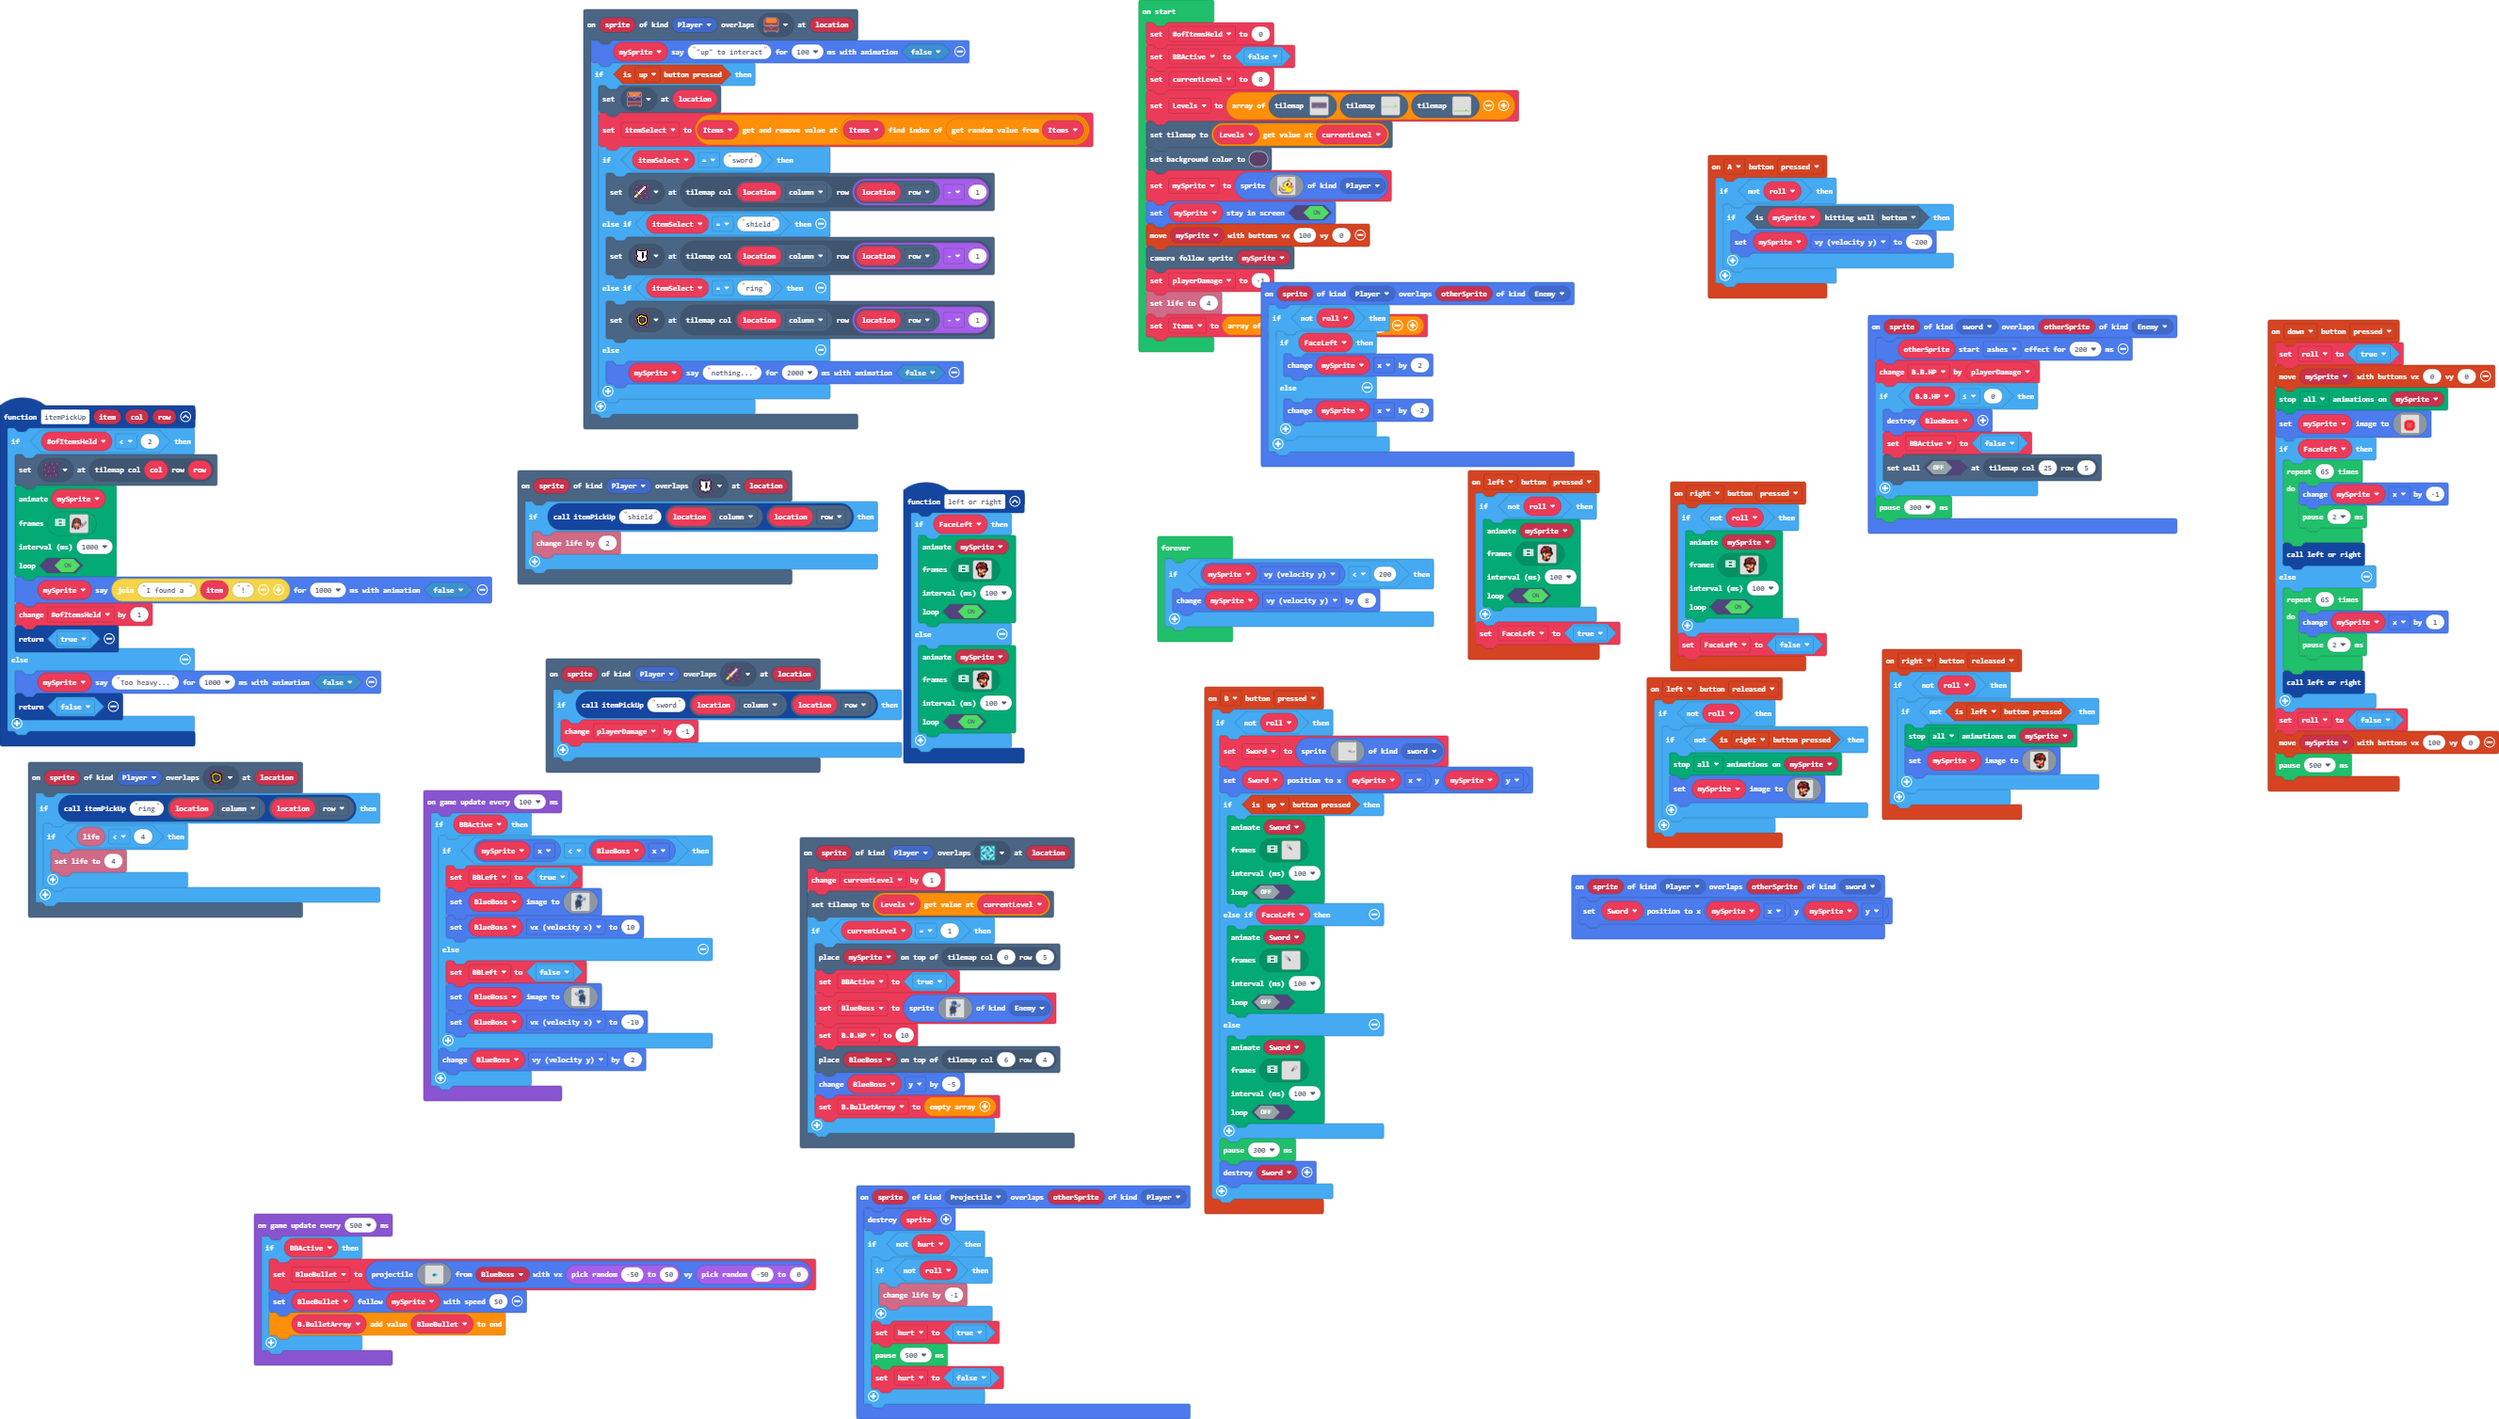
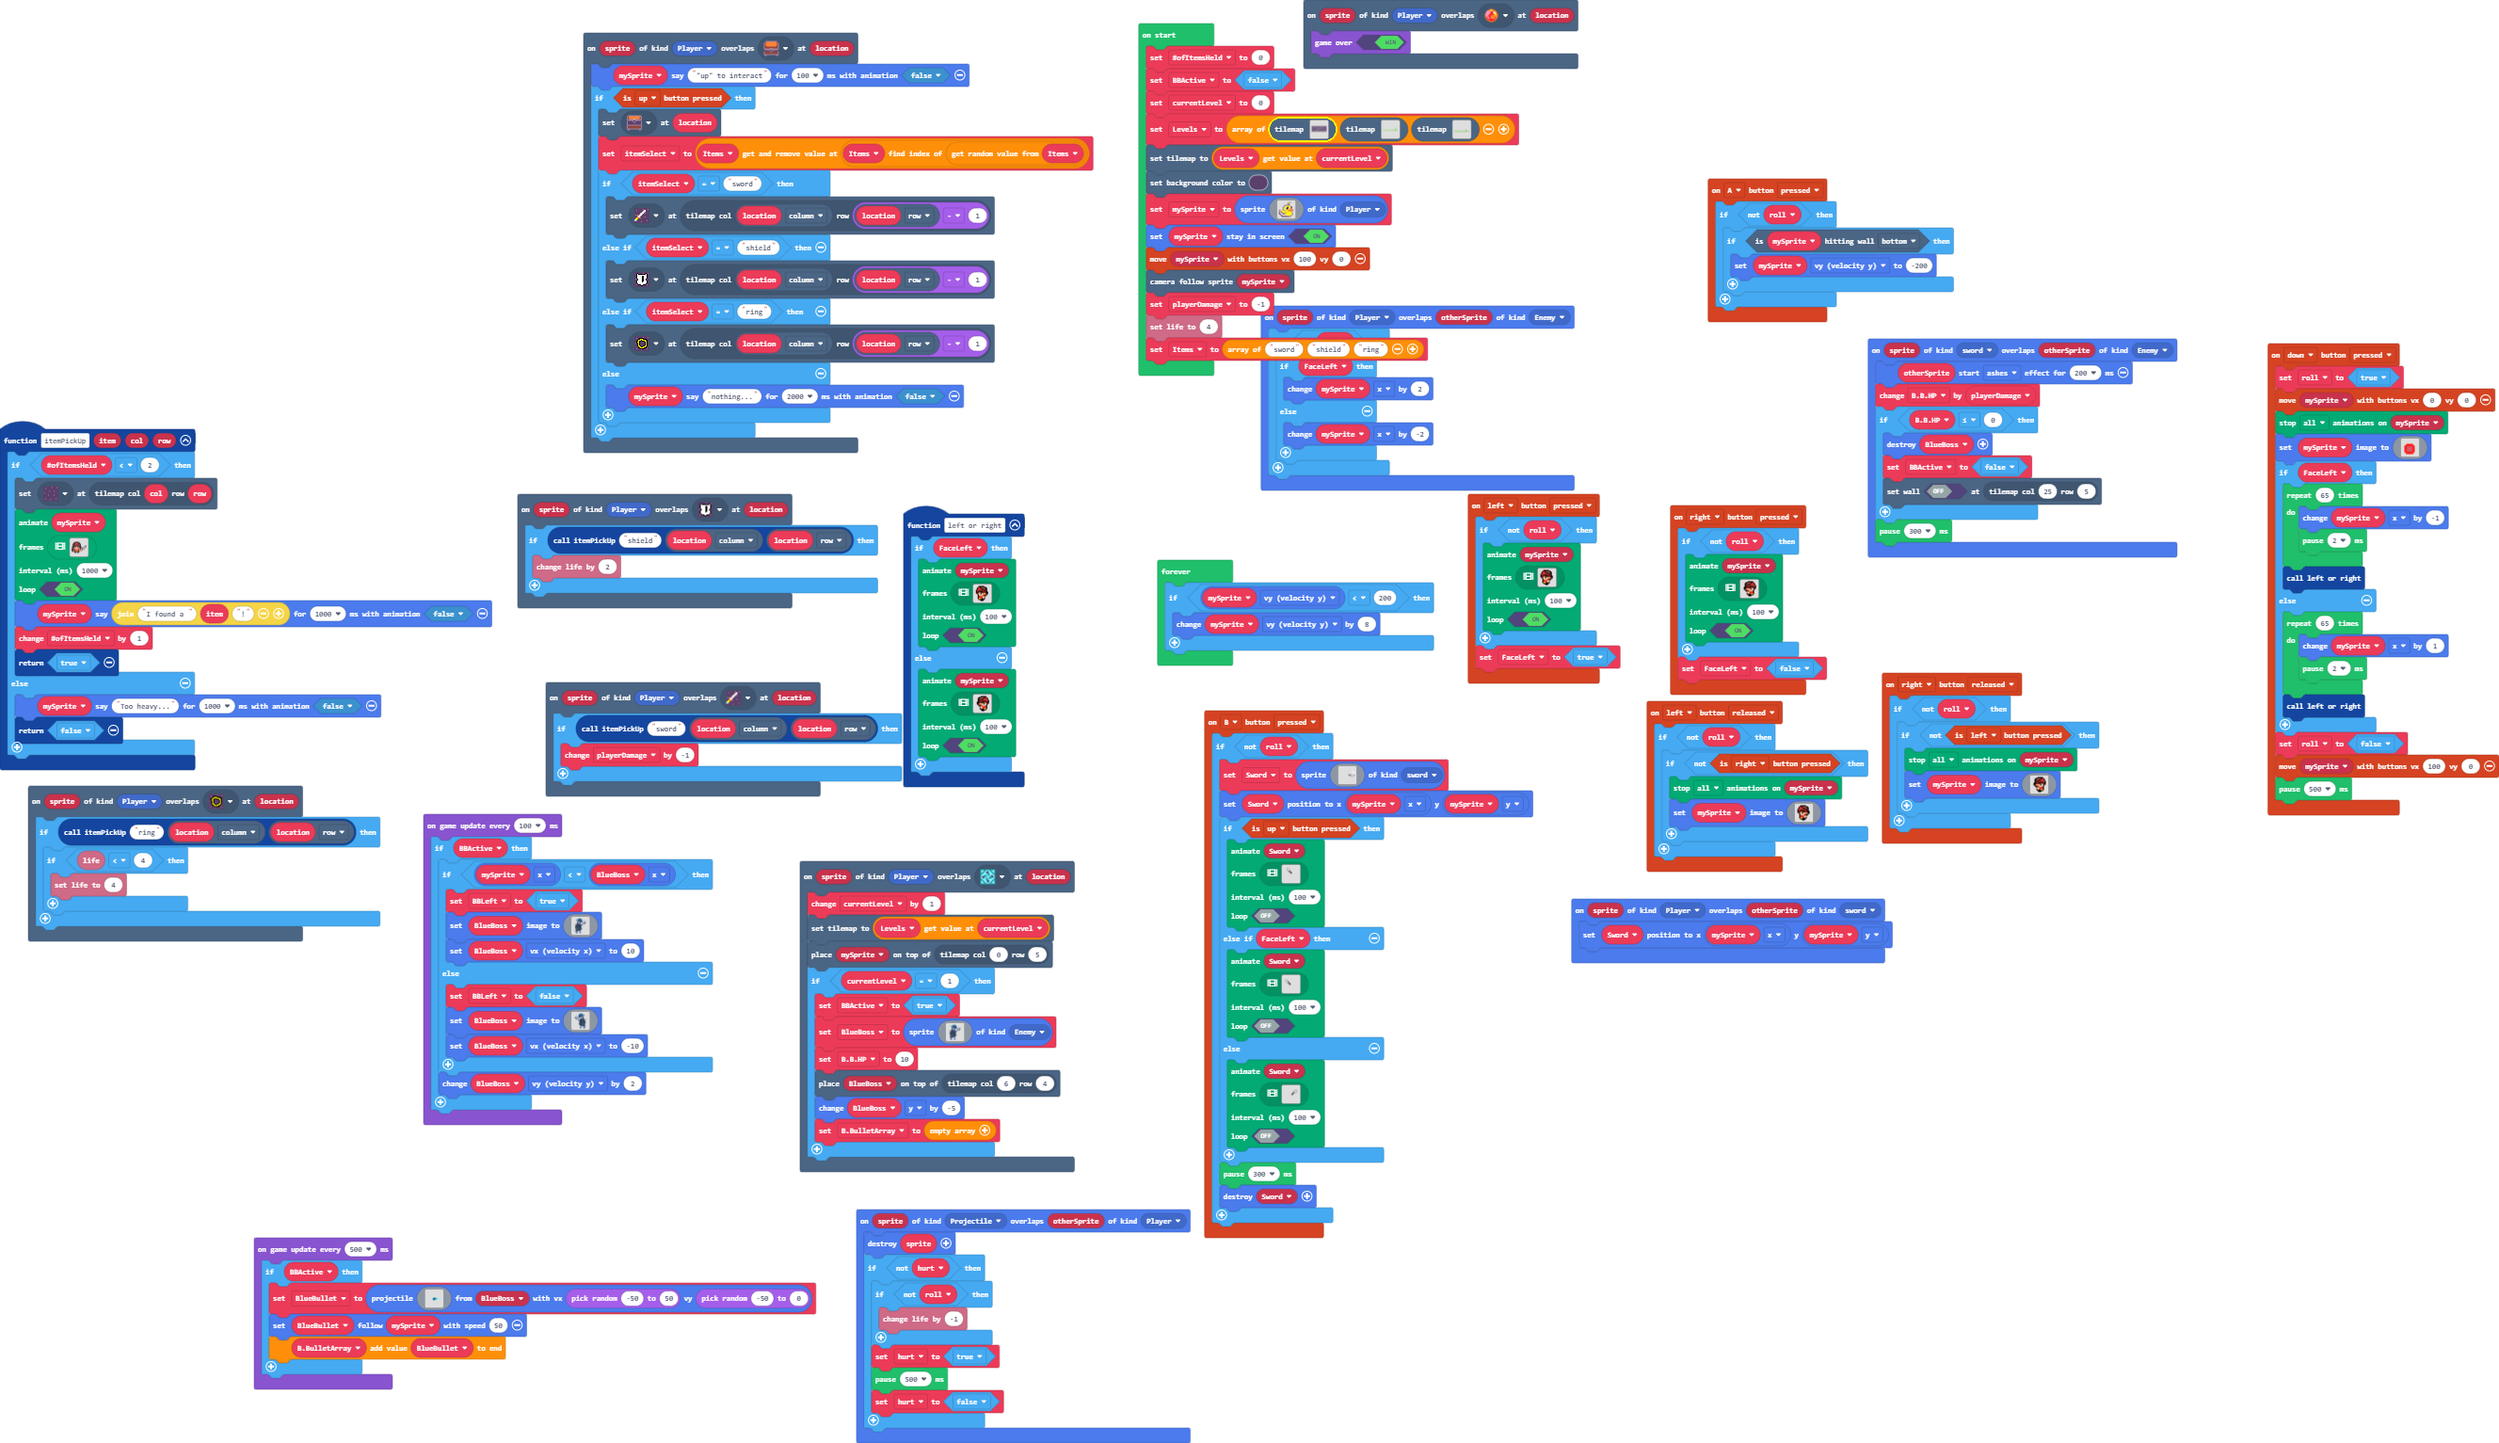
Update main.blocks, main.ts, tilemap.g.jres, tilemap.g.ts

Changed region(s): [[0.0, 0.0, 1.0, 0.9973]]

diff --git a/tilemap.g.ts b/tilemap.g.ts
@@ -127,27 +127,8 @@ namespace myTiles {
 . . . . . . . . . . . . . . . . 
 . . . . . . . . . . . . . . . . 
 `, [myTiles.transparency16], TileScale.Sixteen);
-            case "level9":
-            case "level9":return tiles.createTilemap(hex`1000100000000000000000000000000000000000000000000000000000000000000000000000000000000000000000000000000000000000000000000000000000000000000000000000000000000000000000000000000000000000000000000000000000000000000000000000000000000000000000000000000000000000000000000000000000000000000000000000000000000000000000000000000000000000000000000000000000000000000000000000000000000000000000000000000000000000000000000000000002000000010101010101010101010101010101010000000000000000000000000000000000000000000000000000000000000000`, img`
-. . . . . . . . . . . . . . . . 
-. . . . . . . . . . . . . . . . 
-. . . . . . . . . . . . . . . . 
-. . . . . . . . . . . . . . . . 
-. . . . . . . . . . . . . . . . 
-. . . . . . . . . . . . . . . . 
-. . . . . . . . . . . . . . . . 
-. . . . . . . . . . . . . . . . 
-. . . . . . . . . . . . . . . . 
-. . . . . . . . . . . . . . . . 
-. . . . . . . . . . . . . . . . 
-. . . . . . . . . . . . . . . . 
-. . . . . . . . . . . . . . . . 
-. . . . . . . . . . . . . . . . 
-. . . . . . . . . . . . . . . . 
-. . . . . . . . . . . . . . . . 
-`, [myTiles.transparency16,sprites.castle.tileGrass2,sprites.dungeon.chestClosed], TileScale.Sixteen);
             case "level6":
[2 lines of base64/hex data omitted]
 . . . . . . . . . . . . . . . . . . . . . . . . . 2 . . . . 
 . . . . . . . . . . . . . . . . . . . . . . . . . 2 . . . . 
 . . . . . . . . . . . . . . . . . . . . . . . . . 2 . . . . 
@@ -156,17 +137,29 @@ namespace myTiles {
 . . . . . . . . . . . . . . . . . . . . . . . . . 2 . . . . 
 2 2 2 2 2 2 2 2 2 2 2 2 2 2 2 2 2 2 2 2 2 2 2 2 2 2 2 2 2 2 
 . . . . . . . . . . . . . . . . . . . . . . . . . . . . . . 
-`, [myTiles.transparency16,sprites.castle.tileGrass1,sprites.castle.tileGrass3,sprites.dungeon.doorClosedNorth], TileScale.Sixteen);
+`, [myTiles.transparency16,sprites.castle.tileGrass1,sprites.castle.tileGrass3,sprites.dungeon.doorClosedNorth,sprites.dungeon.collectibleInsignia], TileScale.Sixteen);
+            case "level9":
+            case "level9":return tiles.createTilemap(hex`10000900000000000000000000000000000000000000000000000000000000000000000000000000000000000000000000000000000000000000000000000000000000000000000000000000000000000000000000000000000000000000000002000000010101010101010101010101010101010000000000000000000000000000000000000000000000000000000000000000`, img`
+. . . . . . . . . . . . . . . . 
+. . . . . . . . . . . . . . . . 
+. . . . . . . . . . . . . . . . 
+. . . . . . . . . . . . . . . . 
+. . . . . . . . . . . . . . . . 
+. . . . . . . . . . . . . . . . 
+2 2 2 2 2 2 2 2 2 2 2 2 2 2 2 2 
+. . . . . . . . . . . . . . . . 
+. . . . . . . . . . . . . . . . 
+`, [myTiles.transparency16,sprites.castle.tileGrass2,sprites.dungeon.collectibleRedCrystal], TileScale.Sixteen);
             case "level2":
-            case "level2":return tiles.createTilemap(hex`2800100005040404040404040404040404040404040404040404040404040404040404040404040404040408050404040404040404040404040404040404040404040404040404040404040404040404040404040504040404040404040404040404040404040404040404040404040404040404040404040404040405040404040404040404040404040404040404040404040404040404040404040404040404040404050404040404040404040404040404040404040404040404040404040404040404040404040404040504040404040404040404040404040404040404040404040404040404040404040404040404040405040404040404040404040404040404040404040404040404040404040404040404040404040404050404040404040404040404040404040404040404040404040404040404040404040404040404040504040404040404040404040404040404070404040404040404040404040404040404040404040405040404040404040404040404040404020204040404040404040404040404040404040404040404050404040404040404040404040704040404040404040404040404040404040404040404040404040504040404040404040404040402020404040404040404040404040404040404040404040404040405040404040404040404040404040404040404040404040404040404040404040404040404040404050101010101010101010101010101010101010101010101070101010101010701010101010101060202020202020202020202020202020202020202020202020202020202020202020202020202020203030303030303030303030303030303030303030303030303030303030303030303030303030303`, img`
+            case "level2":return tiles.createTilemap(hex`2800100005040404040404040404040404040404040404040404040404040404040404040404040404040408050404040404040404040404040404040404040404040404040404040404040404040404040404040504040404040404040407040404040404040404040404040404070404040404040404040404040405040404040404040404020404040404040404040404040404020204040404040404040404040404050404040404040404040404040404040404040404040404040404040404040404040404040404040504040404040404040404040404040402020404040402020404040404040404040404040404040405040404040404040404040404040404040404040404040404040404040404040404040404040404050404040404040404040404040404040404040202040404040404040404040404040404040404040504040404040404040404040404040407040404040404040404040404040404040404040404040405040404040404040404040404040404020204040404040404040404040404040404040404040404050404040404040404040404040404040404040404040404040404040404040404040404040404040504040404040404040404040402020404040404040404040404040404040404040404040404040405040404040404040404040404040404040404040404040404040404040404040404040404040404050101010101010101010101010101010101010101010101010701010101010101010101010101060202020202020202020202020202020202020202020202020202020202020202020202020202020203030303030303030303030303030303030303030303030303030303030303030303030303030303`, img`
 2.......................................
 2.......................................
 2.......................................
+2.........2..............22.............
 2.......................................
+2...............22....22................
 2.......................................
-2.......................................
-2.......................................
-2.......................................
+2..................22...................
 2.......................................
 2...............22......................
 2.......................................

diff --git a/main.ts b/main.ts
@@ -1045,11 +1045,14 @@ function itemPickUp (item: string, col: number, row: number) {
         return false
     }
 }
+scene.onOverlapTile(SpriteKind.Player, sprites.dungeon.collectibleRedCrystal, function (sprite, location) {
+    game.gameOver(true)
+})
 scene.onOverlapTile(SpriteKind.Player, sprites.dungeon.collectibleInsignia, function (sprite, location) {
     currentLevel += 1
     tiles.setCurrentTilemap(Levels[currentLevel])
+    tiles.placeOnTile(mySprite, tiles.getTileLocation(0, 5))
     if (currentLevel == 1) {
-        tiles.placeOnTile(mySprite, tiles.getTileLocation(0, 5))
         BBActive = true
         BlueBoss = sprites.create(img`
             .................666....1................
